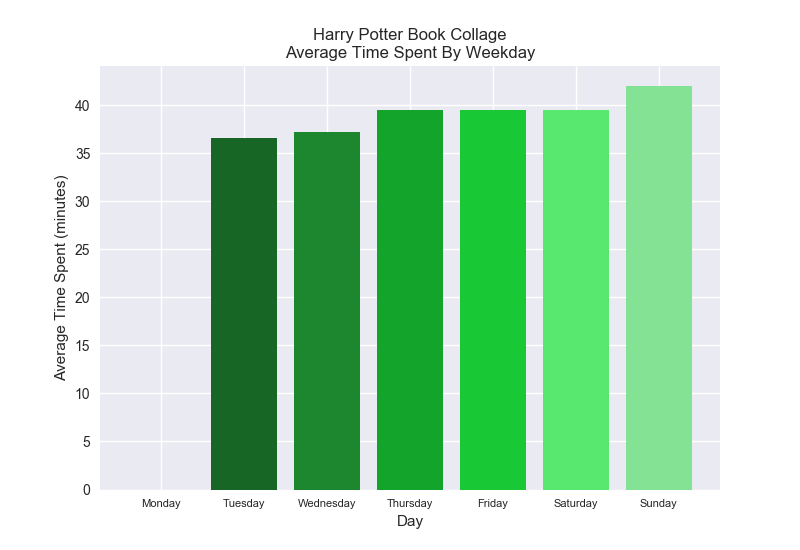
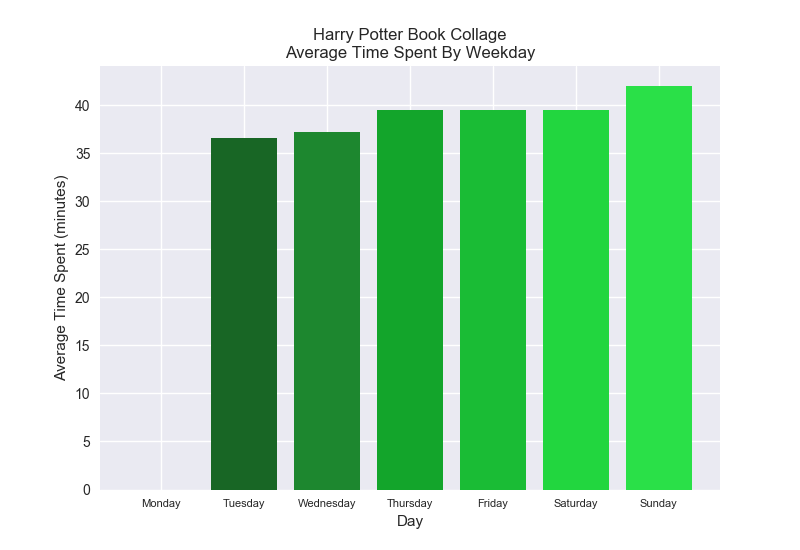
Bar graphs now with nice colours

Changed region(s): [[0.6562, 0.1545, 0.875, 0.8964]]

diff --git a/testing.java b/testing.java
@@ -1,0 +1,29 @@
+float[] xspeed = new float[5];
+float [] x = new float[5]
+for (int i = 0; i < 5; i++ ) {
+	xspeed[i] = random(1.15, 1.2);
+	x[i] = // wherever you want the ball to start! 
+}
+
+// same for x and y. Should have 4 different arrays each of size 5.
+// same for y speed etc.
+
+
+// When you get to adding speed:
+for (int i = 0; i < 5; i++) {
+	x[i] += xspeed[i];
+	y[i] += yspeed[i];
+}
+
+
+// performing all the checks 
+// 1) loop through every ball
+for (int i = 0; i < 5; i++) {
+	// perform each check. 
+	// Check if THIS BALL hits the bottom
+	if (y[i] > height) {
+		yspeed[i] = yspeed[i] * -0.95;
+	}
+	
+	// the rest of the checks 
+}

diff --git a/visualise_data/day_of_week.py b/visualise_data/day_of_week.py
@@ -16,9 +16,10 @@ def _colours():
     tuesday_colour = "#186625"
     wednesday_colour = "#1d872f"
     thursday_colour = "#13a52b"
-    friday_colour = "#18c935"  # Change
-    saturday_colour = "#58e870"  # Change
+    friday_colour = "#1abc35"
+    saturday_colour = "#22d63f"
     sunday_colour = "#83e293"  # Change
+    sunday_colour = "#2ae048"
     return [
         monday_colour,
         tuesday_colour,
